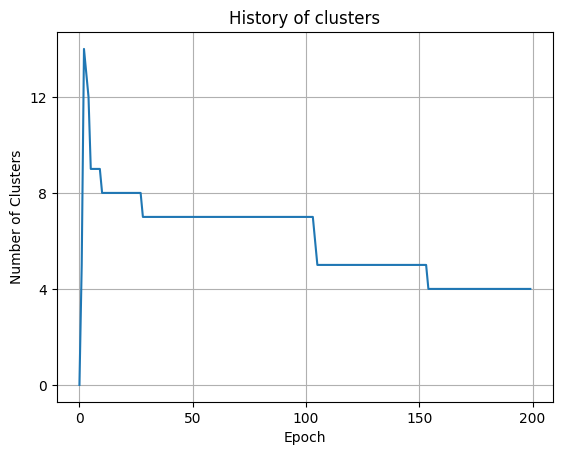
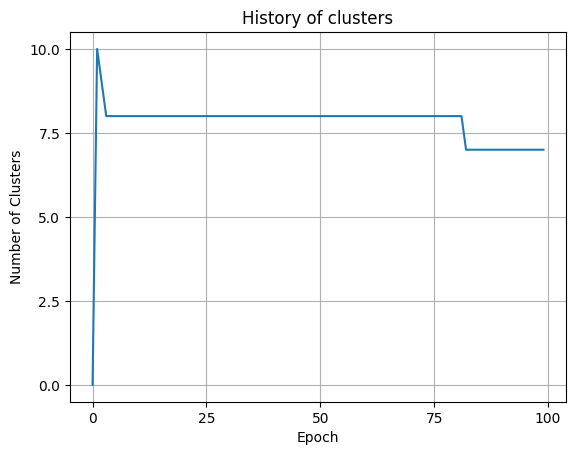
Patched evaluation for DPMM

diff --git a/spirl/models/CL_SPIRL_DIVA_mdl.py b/spirl/models/CL_SPIRL_DIVA_mdl.py
@@ -37,6 +37,7 @@ class SPiRL_DIVAMdl(SkillPriorMdl):
         self.bnp_root = pwd + '/save/bn_model/'
         self.bnp_iterator = cycle(range(2))
         self.bnp_model = None
+        self.bnp_info_dict = None
         self.comp_var = None
         self.comp_mu = None
         self.num_clusters = 0
@@ -92,8 +93,31 @@ class SPiRL_DIVAMdl(SkillPriorMdl):
             output.p = output.q_hat     # use output of learned skill prior for sampling
 
         # sample latent variable
-        output.z = output.p.sample() if self._sample_prior else output.q.sample() # TODO: p.sample is wrong, sample from DPMM
-        output.z_q = output.z.clone() if not self._sample_prior else output.q.sample()   # for loss computation
+        if self._sample_prior: # if validation
+            if not use_learned_prior and self.bnp_model:
+                print("Validation based on DPMM...")
+                z = output.q.sample()
+                _, hard_assignment = self.cluster_assignments(z)  # [batch_size]
+                zs_sampled = []
+                for i in range(len(hard_assignment)):
+                    k = hard_assignment[i]
+                    z_sampled = torch.distributions.MultivariateNormal(
+                        loc=self.comp_mu[k].to(z.device),
+                        covariance_matrix=torch.diag_embed(self.comp_var[k],
+                    ).to(z.device)).sample()
+                    zs_sampled.append(z_sampled)
+                z_component = torch.stack(zs_sampled, dim=0)
+                print("Sampled z shape:", z_component.shape)
+                output.z = z_component
+                print("z should be like:", z.shape)
+                output.z_q = z # for loss computation
+            else:
+                print("Validation based on Gauss...")
+                output.z = output.p.sample()
+                output.z_q = output.q.sample() # for loss computation
+        else: # if training/inference
+            output.z = output.q.sample()
+            output.z_q = output.z.clone() # for loss computation
 
         # decode
         assert self._regression_targets(inputs).shape[1] == self._hp.n_rollout_steps
@@ -123,11 +147,11 @@ class SPiRL_DIVAMdl(SkillPriorMdl):
 
         if not self.bnp_model:
             losses.kl_loss = KLDivLoss(self.beta)(model_output.q, model_output.p)
-            print(" ________________________________________________ ")
-            print("|                   KL-DIV LOSS                  |")
-            print("|                                                |")
-            print("|  Original VAE KL Loss: ----------------- ", round(losses.kl_loss.value.item(), 4))
-            print("|                                                |")
+            # print(" ________________________________________________ ")
+            # print("|                   KL-DIV LOSS                  |")
+            # print("|                                                |")
+            # print("|  Original VAE KL Loss: ----------------- ", round(losses.kl_loss.value.item(), 4))
+            # print("|                                                |")
         else: 
             z = model_output.z_q.detach()          
             comp_mu = self.comp_mu
@@ -136,37 +160,37 @@ class SPiRL_DIVAMdl(SkillPriorMdl):
             _, self.num_clusters = prob_comps.shape
             losses.kl_loss = DivaKLDivLoss(self.beta)(model_output.q.mu, model_output.q.log_sigma, prob_comps, comp_mu, comp_var)
             # Make comparison:
-            test = KLDivLoss(self.beta)(model_output.q, model_output.p)
-            print(" ________________________________________________ ")
-            print("|                DPMM information                |")
-            print("|                                                |")
-            print("|  Currently clusters: ----------------------- ", self.num_clusters)
-            print("|                                                |")
-            print("|________________________________________________|")
-            print("|                   KL-DIV LOSS                  |")
-            print("|                                                |")
-            print("|  Original VAE KL Loss: ----------------- ", round(test.value.item(),4))
-            print("|  DPMM Kldiv loss: ---------------------- ", round(losses.kl_loss.value.item(),4))
-            print("|                                                |")
+            #test = KLDivLoss(self.beta)(model_output.q, model_output.p)
+            # print(" ________________________________________________ ")
+            # print("|                DPMM information                |")
+            # print("|                                                |")
+            # print("|  Currently clusters: ----------------------- ", self.num_clusters)
+            # print("|                                                |")
+            # print("|________________________________________________|")
+            # print("|                   KL-DIV LOSS                  |")
+            # print("|                                                |")
+            # print("|  Original VAE KL Loss: ----------------- ", round(test.value.item(),4))
+            # print("|  DPMM Kldiv loss: ---------------------- ", round(losses.kl_loss.value.item(),4))
+            # print("|                                                |")
 
 
 
         # learned skill prior net loss
         losses.q_hat_loss = self._compute_learned_prior_loss(model_output)
-        print("|________________________________________________|")
-        print("|                Other LOSSes                    |")
-        print("|                                                |")
-        print("|  Computed Prior loss: ------------------ ", round(losses.q_hat_loss.value.item(),4))
-        print("|  Reconstruction loss: ------------------ ", round(losses.rec_mse.value.item(),4))
+        # print("|________________________________________________|")
+        # print("|                Other LOSSes                    |")
+        # print("|                                                |")
+        # print("|  Computed Prior loss: ------------------ ", round(losses.q_hat_loss.value.item(),4))
+        # print("|  Reconstruction loss: ------------------ ", round(losses.rec_mse.value.item(),4))
 
         # Optionally update beta
         if self.training and self._hp.target_kl is not None:
             self._update_bedta(losses.kl_loss.value)
 
         losses.total = self._compute_total_loss(losses)
-        print("|                                                |")
-        print("|  TOTAL LOSS: --------------------------- ", round(losses.total.value.item(),4))
-        print("|________________________________________________|")
+        # print("|                                                |")
+        # print("|  TOTAL LOSS: --------------------------- ", round(losses.total.value.item(),4))
+        # print("|________________________________________________|")
         return losses
     
     def fit_dpmm(self, z):
@@ -207,7 +231,7 @@ class SPiRL_DIVAMdl(SkillPriorMdl):
         self.calc_cluster_component_params()
         print("_____________________ End of DPMM Phase _____________________")
         print("*************************************************************")
-
+    
     def cluster_assignments(self, z):
         z = XData(z.detach().cpu().numpy())
         LP = self.bnp_model.calc_local_params(z)

diff --git a/DPMM_vis.py b/DPMM_vis.py
@@ -24,13 +24,13 @@ from spirl.utils.pytorch_utils import RepeatedDataLoader
 from spirl.models.CL_SPIRL_DIVA_mdl import SPiRL_DIVAMdl
 from spirl.train import ModelTrainer
 from spirl.components.params import get_args
-from spirl.configs.skill_prior_learning.kitchen.spirl_DPMM_h_cl.conf import model_config
+from spirl.configs.skill_prior_learning.kitchen.spirl_DPMM_h_cl_v4.conf import model_config
 
 import matplotlib.pyplot as plt
 import matplotlib.markers as mark
 from sklearn.manifold import TSNE
 # Path to the checkpoint
-checkpoint_path = './experiments/skill_prior_learning/kitchen/spirl_DPMM_h_cl_v3/weights/weights_ep199.pth'
+checkpoint_path = './experiments/skill_prior_learning/kitchen/spirl_DPMM_h_cl_v4/weights/weights_ep99.pth'
 
 # Load checkpoint
 checkpoint = torch.load(checkpoint_path)
@@ -150,7 +150,7 @@ def sample_gauss_component(model,
 data_cloud = []
 num_clusters = len(model.comp_mu)
 
-sample_gauss = False # Toggle for additional original Gauss VAE sampling
+sample_gauss = True # Toggle for additional original Gauss VAE sampling
 sample_gauss_as_other_pic = False # Toggle for additional original Gauss VAE sampling in the different picture
 
 num_samples = 120
@@ -185,7 +185,7 @@ plt.xlabel('t-SNE Component 1')
 plt.ylabel('t-SNE Component 2')
 plt.grid(True)
 plt.legend()
-plt.savefig('/home/ubuntu/Mikhail/spirl/DPMM_visualisation_v3.png',bbox_inches='tight')
+plt.savefig('/home/ubuntu/Mikhail/spirl/DPMM_visualisation_v4.png',bbox_inches='tight')
 plt.show()
 
 # Toggle for gaussian distribution of original VAE in other picture
@@ -206,7 +206,7 @@ if sample_gauss_as_other_pic:
     plt.ylabel('t-SNE Component 2')
     plt.grid(True)
     plt.legend()
-    plt.savefig('/home/ubuntu/Mikhail/spirl/Gauss_visualisation_v3.png',bbox_inches='tight')
+    plt.savefig('/home/ubuntu/Mikhail/spirl/Gauss_visualisation_v4.png',bbox_inches='tight')
     plt.show()
 
 def latent_space_analysis(model, num_clusters):

diff --git a/SD_Inference.py b/SD_Inference.py
@@ -26,12 +26,12 @@ from spirl.models.CL_SPIRL_DIVA_mdl import SPiRL_DIVAMdl
 from spirl.train import ModelTrainer
 from torch import autograd
 from spirl.components.params import get_args
-from spirl.configs.skill_prior_learning.kitchen.spirl_DPMM_h_cl.conf import model_config, data_config
+from spirl.configs.skill_prior_learning.kitchen.spirl_DPMM_h_cl_v4.conf import model_config, data_config
 import matplotlib.pyplot as plt
 import matplotlib.markers as mark
 from sklearn.manifold import TSNE
 # Path to the checkpoint
-checkpoint_path = './experiments/skill_prior_learning/kitchen/spirl_DPMM_h_cl_v3/weights/weights_ep99.pth'
+checkpoint_path = './experiments/skill_prior_learning/kitchen/spirl_DPMM_h_cl_v4/weights/weights_ep99.pth'
 
 # Load checkpoint
 checkpoint = torch.load(checkpoint_path)
@@ -129,7 +129,7 @@ def plot_centroids(out, model):
     plt.ylabel('t-SNE Component 2')
     plt.grid(True)
     plt.legend()
-    plt.savefig('/home/ubuntu/Mikhail/spirl/Prior_mu.png',bbox_inches='tight')
+    plt.savefig('/home/ubuntu/Mikhail/spirl/Prior_mu_v4.png',bbox_inches='tight')
     plt.show()
 
 def plot_samples(out, model, num__samples, num_inferences):
@@ -170,7 +170,7 @@ def plot_samples(out, model, num__samples, num_inferences):
     plt.ylabel('t-SNE Component 2')
     plt.grid(True)
     plt.legend()
-    plt.savefig('/home/ubuntu/Mikhail/spirl/Inference Projection onto DPMM.png',bbox_inches='tight')
+    plt.savefig('/home/ubuntu/Mikhail/spirl/Inference_Projection onto DPMM_v4.png',bbox_inches='tight')
     plt.show()
 
 
@@ -180,3 +180,4 @@ print("Latent mu, sigma:",out.q.mu, out.q.log_sigma)
 print(out.q_hat.mu.shape)
 
 plot_samples(out=out, model=model, num__samples=120, num_inferences=3)
+plot_centroids(out=out, model=model)

diff --git a/spirl/models/skill_prior_mdl.py b/spirl/models/skill_prior_mdl.py
@@ -46,8 +46,10 @@ class SkillPriorMdl(BaseModel, ProbabilisticModel):
 
     @contextmanager
     def val_mode(self): # Called in evaluation phase, switches to sampling from prior ()
+        print("Entering Validation Mode")
         self.switch_to_prior()
         yield
+        print("Returning to Training Mode")
         self.switch_to_inference()
 
     def _default_hparams(self):
@@ -205,8 +207,13 @@ class SkillPriorMdl(BaseModel, ProbabilisticModel):
             inputs = map2torch(inputs, device=self.device)
 
             # sample latent variable from prior
-            z = self.compute_learned_prior(self._learned_prior_input(inputs), first_only=True).sample() \
-                if use_learned_prior else Gaussian(torch.zeros((1, self._hp.nz_vae*2), device=self.device)).sample()
+            if use_learned_prior:
+                z = self.compute_learned_prior(self._learned_prior_input(inputs), first_only=True).sample()
+            elif self.bnp_model:
+                # z = Gaussian(torch.zeros((1, self._hp.nz_vae*2), device=self.device)).sample()
+                raise RuntimeError("TODO: sample from DPMM, not from Gaussian!")
+            else:
+                z = Gaussian(torch.zeros((1, self._hp.nz_vae*2), device=self.device)).sample()
 
             # decode into action plan
             z = z.repeat(self._hp.batch_size, 1)  # this is a HACK flat LSTM decoder can only take batch_size inputs

diff --git a/spirl/train.py b/spirl/train.py
@@ -208,6 +208,11 @@ class ModelTrainer(BaseTrainer):
         if self.args.test_prediction:
             start = time.time()
             self.model_test.load_state_dict(self.model.state_dict())
+            if hasattr(self.model, "bnp_model"):
+                self.model_test.bnp_model = self.model.bnp_model
+                self.model_test.bnp_info_dict = self.model.bnp_info_dict
+                self.model_test.comp_mu = self.model.comp_mu
+                self.model_test.comp_var = self.model.comp_var
             losses_meter = RecursiveAverageMeter()
             self.model_test.eval()
             self.evaluator.reset()

diff --git a/spirl/configs/hrl/kitchen/spirl_cl_DPMM_v4/conf.py b/spirl/configs/hrl/kitchen/spirl_cl_DPMM_v4/conf.py
@@ -14,7 +14,7 @@ ll_policy_params = AttrDict(
     #policy_model_checkpoint=os.path.join(os.environ["EXP_DIR"],
                                          #"skill_prior_learning/kitchen/hierarchical_cl"), # OriginalCode
     policy_model_checkpoint=os.path.join(os.environ["EXP_DIR"],
-                                         "skill_prior_learning/kitchen/spirl_DPMM_h_cl"),
+                                         "skill_prior_learning/kitchen/spirl_DPMM_h_cl_v4"),
 )
 ll_policy_params.update(ll_model_params)
 

diff --git a/spirl/components/params.py b/spirl/components/params.py
@@ -36,7 +36,7 @@ def get_args():
                         help='number of image loggings per epoch')
     parser.add_argument('--val_data_size', default=-1, type=int,
                         help='number of sequences in the validation set. If -1, the full dataset is used')
-    parser.add_argument('--val_interval', default=5, type=int,
+    parser.add_argument('--val_interval', default=1, type=int,
                         help='number of epochs per validation')
 
     # Debug

diff --git a/spirl/configs/hrl/kitchen/spirl_cl/conf.py b/spirl/configs/hrl/kitchen/spirl_cl/conf.py
@@ -13,8 +13,6 @@ ll_policy_params = AttrDict(
     policy_model_params=ll_model_params,
     policy_model_checkpoint=os.path.join(os.environ["EXP_DIR"],
                                          "skill_prior_learning/kitchen/hierarchical_cl"), # OriginalCode
-    #policy_model_checkpoint=os.path.join(os.environ["EXP_DIR"],
-                                         #"skill_prior_learning/kitchen/spirl_DPMM_h_cl"),
 )
 ll_policy_params.update(ll_model_params)
 

diff --git a/spirl/configs/skill_prior_learning/kitchen/spirl_DPMM_h_cl_correct_eval/conf.py b/spirl/configs/skill_prior_learning/kitchen/spirl_DPMM_h_cl_correct_eval/conf.py
@@ -14,7 +14,7 @@ configuration = {
     'logger': Logger,
     'data_dir': '.',
     'epoch_cycles_train': 50,
-    'num_epochs': 200,
+    'num_epochs': 100,
     'evaluator': TopOfNSequenceEvaluator,
     'top_of_n_eval': 100,
     'top_comp_metric': 'mse',

diff --git a/spirl/configs/skill_prior_learning/kitchen/spirl_DPMM_h_cl_v4/conf.py b/spirl/configs/skill_prior_learning/kitchen/spirl_DPMM_h_cl_v4/conf.py
@@ -25,7 +25,7 @@ model_config = AttrDict(
     state_dim=data_spec.state_dim,
     action_dim=data_spec.n_actions,
     n_rollout_steps=10,
-    kl_div_weight=3e-4,
+    kl_div_weight=5e-4,
     nz_enc=128,
     nz_mid=128,
     n_processing_layers=5,

diff --git a/spirl/configs/skill_prior_learning/kitchen/spirl_DPMM_h_cl_correct_eval/README.md b/spirl/configs/skill_prior_learning/kitchen/spirl_DPMM_h_cl_correct_eval/README.md
@@ -18,7 +18,7 @@ see [here](../../block_stacking/hierarchical_cl/README.md).
 
 To train the SPiRL model with closed-loop action decoder on the kitchen environment, run the following command:
 ```
-python3 spirl/train.py --path=spirl/configs/skill_prior_learning/kitchen/spirl_DPMM_h_cl_v3 --val_data_size=160
+python3 spirl/train.py --path=spirl/configs/skill_prior_learning/kitchen/spirl_DPMM_h_cl_correct_eval --val_data_size=160
 ```
 
 To train a downstream task policy with RL using the closed-loop SPiRL model we just trained, run the following command:
